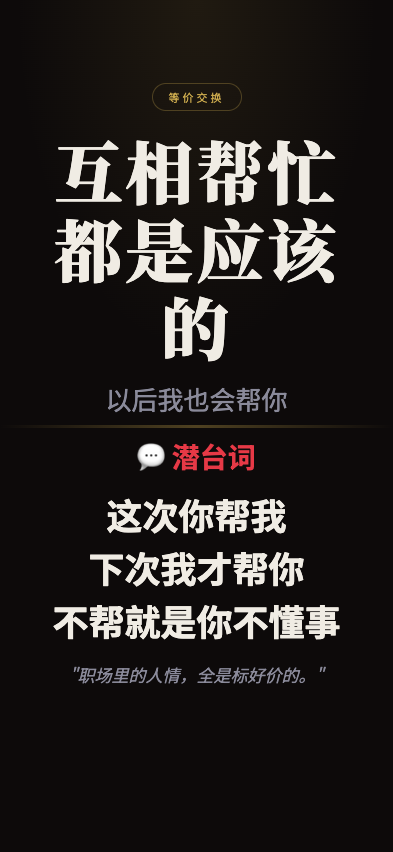
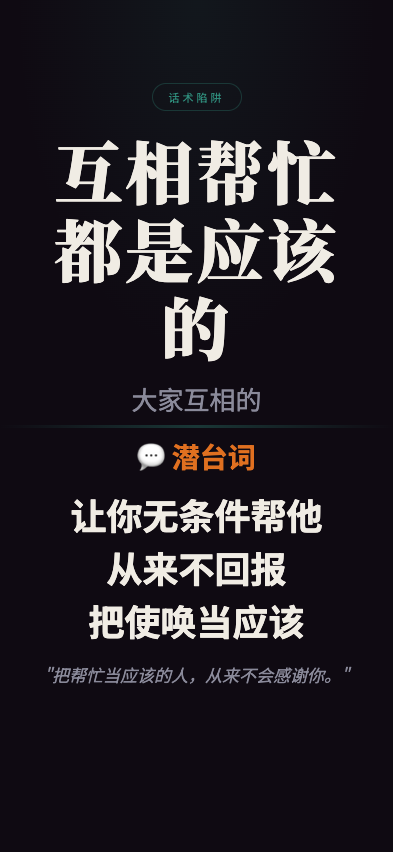
feat: 职场生存法则 screenshot - huxiangbangmangdoushiyinggaide

Changed region(s): [[0.1221, 0.5798, 0.855, 0.8239], [0.2443, 0.4577, 0.7328, 0.5493], [0.4275, 0.0915, 0.5802, 0.1221]]

diff --git a/wuliao-tools/tools/biz-speak/scenes/huxiangbangmangdoushiyinggaide.html b/wuliao-tools/tools/biz-speak/scenes/huxiangbangmangdoushiyinggaide.html
@@ -7,11 +7,11 @@
 <link href="https://fonts.googleapis.com/css2?family=Noto+Serif+SC:wght@400;700;900&family=Noto+Sans+SC:wght@300;400;700&display=swap" rel="stylesheet">
 <style>
   :root {
-    --bg: #0d0a0a;
+    --bg: #0f0a12;
     --text: #f0ece4;
     --text-dim: #8a8a9a;
-    --gold: #c9a84c;
-    --red: #e63946;
+    --gold: #2e8b7a;
+    --red: #e07020;
   }
   * { margin:0; padding:0; box-sizing:border-box; }
   html, body { width:100%; height:100%; overflow:hidden; }
@@ -24,11 +24,11 @@
   }
   body::before {
     content:''; position:absolute; top:0; left:0; right:0; height:45%;
-    background:radial-gradient(ellipse at 50% 0%, rgba(201,168,76,0.1) 0%, transparent 65%);
+    background:radial-gradient(ellipse at 50% 0%, rgba(46,139,122,0.1) 0%, transparent 65%);
     pointer-events:none; z-index:0;
   }
   .top { flex:1; display:flex; flex-direction:column; align-items:center; justify-content:flex-end; padding:4px 28px 8px; position:relative; z-index:1; }
-  .tag { font-size:11px; letter-spacing:3px; color:var(--gold); border:1px solid rgba(201,168,76,0.3); padding:5px 16px; border-radius:50px; margin-bottom:20px; }
+  .tag { font-size:11px; letter-spacing:3px; color:var(--gold); border:1px solid rgba(46,139,122,0.3); padding:5px 16px; border-radius:50px; margin-bottom:20px; }
   .main-title { font-family:'Noto Serif SC'; font-size:68px; font-weight:900; text-align:center; line-height:1.15; letter-spacing:3px; min-width:0; overflow-wrap:break-word; max-width:92%; }
   .sub-title { font-size:26px; color:var(--text-dim); text-align:center; margin-top:14px; }
   .divider { width:100%; height:3px; background:linear-gradient(90deg,transparent,var(--gold),transparent); opacity:0.35; flex-shrink:0; position:relative; z-index:1; }
@@ -41,19 +41,19 @@
 </head>
 <body>
   <div class="top">
-    <div class="tag">等价交换</div>
+    <div class="tag">话术陷阱</div>
     <div class="main-title">互相帮忙都是应该的</div>
-    <div class="sub-title">以后我也会帮你</div>
+    <div class="sub-title">大家互相的</div>
   </div>
   <div class="divider"></div>
   <div class="bottom">
     <div class="truth-label">💬 潜台词</div>
     <div class="truth-lines">
-      <div class="truth-line">这次你帮我</div>
-      <div class="truth-line">下次我才帮你</div>
-      <div class="truth-line">不帮就是你不懂事</div>
+      <div class="truth-line">让你无条件帮他</div>
+      <div class="truth-line">从来不回报</div>
+      <div class="truth-line">把使唤当应该</div>
     </div>
-    <div class="quote">"职场里的人情，全是标好价的。"</div>
+    <div class="quote">"把帮忙当应该的人，从来不会感谢你。"</div>
   </div>
 </body>
 </html>
